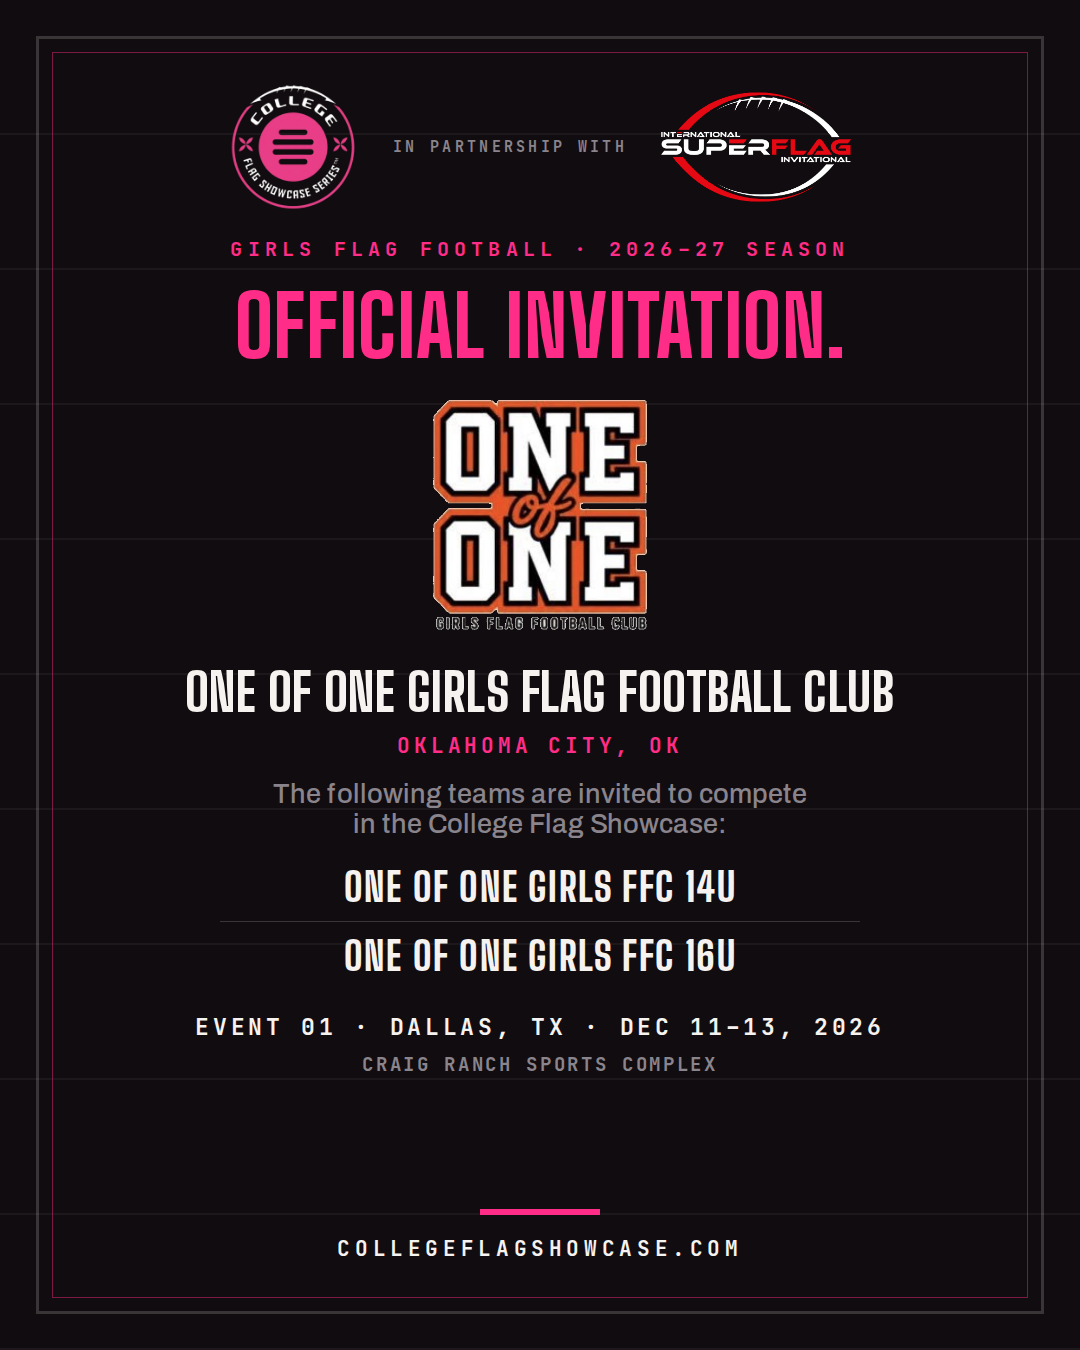
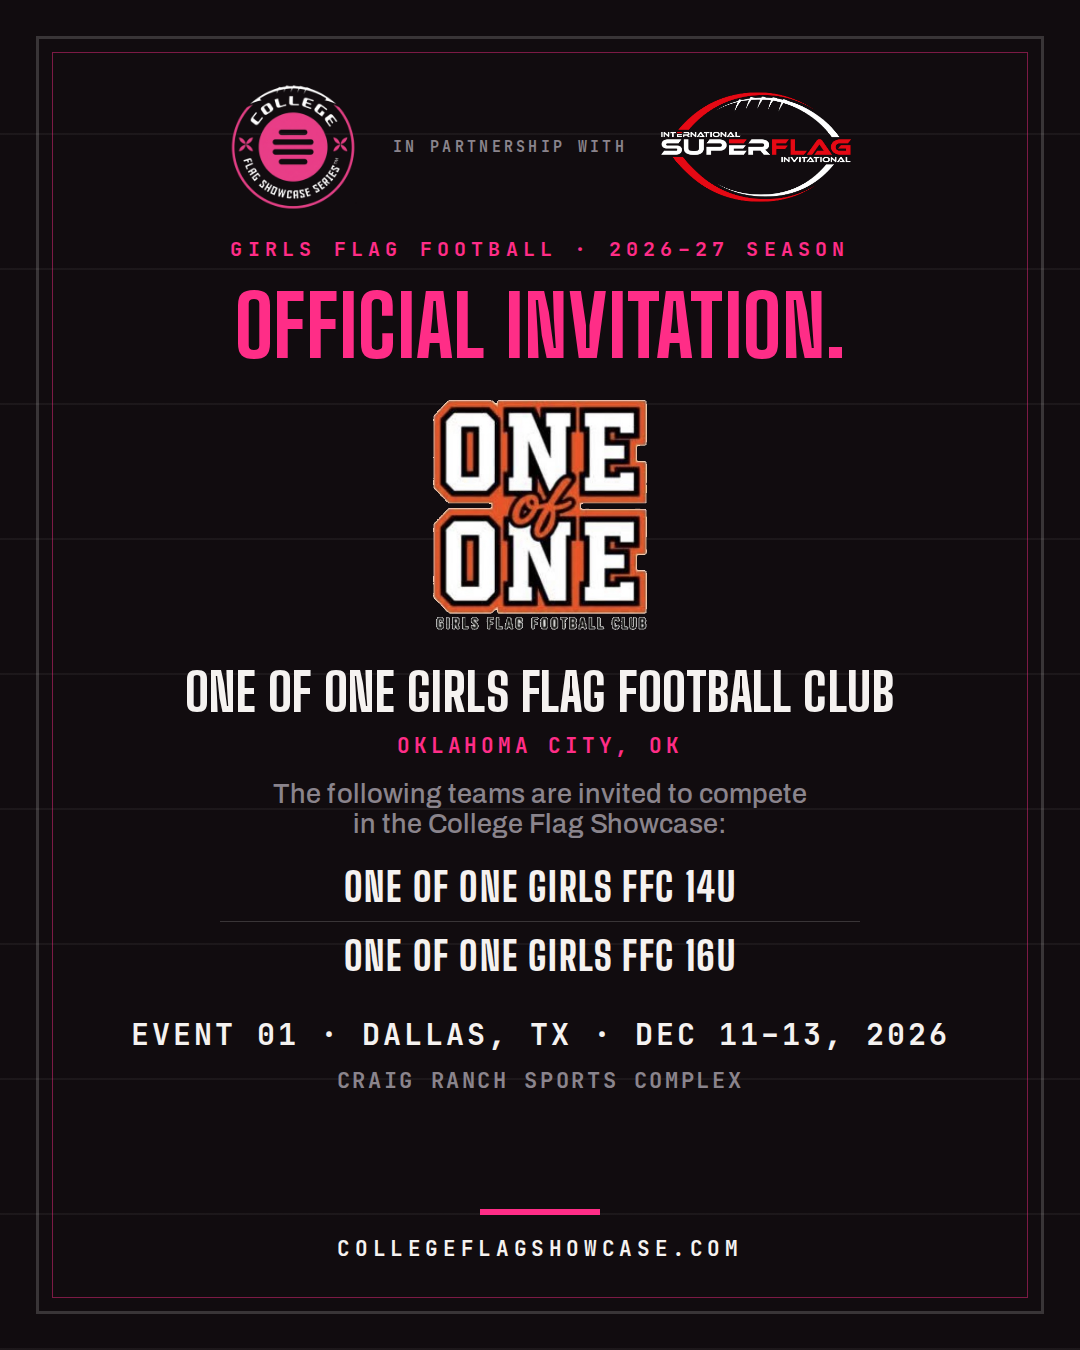
Org invitation: larger event and venue lines for feed legibility
Claude-Session: https://claude.ai/code/session_019V32boShoBmRrwWenCPJFc

Changed region(s): [[0.3056, 0.7467, 0.8861, 0.8089], [0.1222, 0.7467, 0.3056, 0.7778]]

diff --git a/collateral/invite-org-official.html b/collateral/invite-org-official.html
@@ -57,8 +57,8 @@
   .team-row b{color:var(--red);font-weight:800}
 
   .tourney{margin-top:10px;font-family:var(--display);font-weight:800;text-transform:uppercase;line-height:.98;letter-spacing:.02em;font-size:40px;color:var(--chalk)}
-  .event-line{margin-top:22px;font-family:var(--mono);font-size:23px;font-weight:700;letter-spacing:.16em;text-transform:uppercase;color:var(--chalk)}
-  .venue-line{margin-top:10px;font-family:var(--mono);font-size:19px;font-weight:700;letter-spacing:.14em;text-transform:uppercase;color:var(--steel)}
+  .event-line{margin-top:24px;font-family:var(--mono);font-size:30px;font-weight:700;letter-spacing:.1em;text-transform:uppercase;color:var(--chalk)}
+  .venue-line{margin-top:12px;font-family:var(--mono);font-size:22px;font-weight:700;letter-spacing:.12em;text-transform:uppercase;color:var(--steel)}
 
   .rule{margin-top:auto;width:120px;height:6px;background:var(--red);flex-shrink:0}
   .foot{margin-top:20px;flex-shrink:0;font-family:var(--mono);font-size:21px;font-weight:700;letter-spacing:.22em;text-transform:uppercase;color:var(--steel)}
